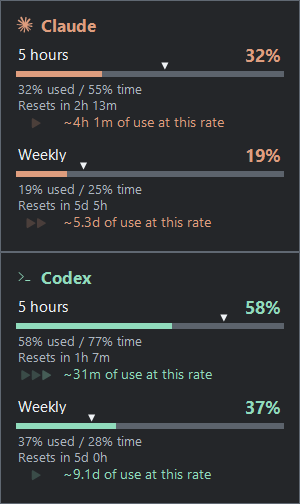
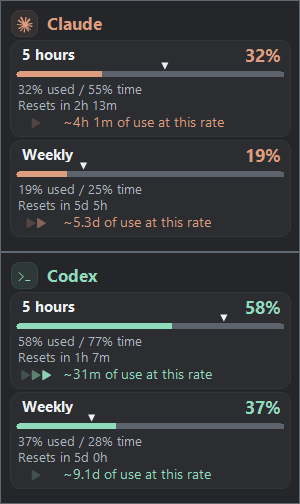
Polish Details and settings with rounded cards, accent navigation and switches

diff --git a/src/Taskcode.Probe/SettingsMenu.cs b/src/Taskcode.Probe/SettingsMenu.cs
@@ -37,19 +37,6 @@ namespace Taskcode.Probe
             MouseDown += delegate(object sender, MouseEventArgs e) { if (e.Y < 64) drag(sender, e); };
             if (!live) MenuLabel(this, "Demo", 176, 25, 64, 18, "muted");
             var close = MenuButton(this, "", 474, 16, 30, 30, "ghost"); close.AccessibleName = "Close settings"; close.Click += delegate { Hide(); };
-            close.Paint += delegate(object sender, PaintEventArgs e)
-            {
-                // Center the symbol geometrically, independently of font baseline and DPI.
-                float scale = close.ClientSize.Width / 30f;
-                float x = close.ClientSize.Width / 2f, y = close.ClientSize.Height / 2f, radius = 4 * scale;
-                e.Graphics.SmoothingMode = System.Drawing.Drawing2D.SmoothingMode.AntiAlias;
-                using (var pen = new Pen(close.ForeColor, 1.3f * scale))
-                {
-                    pen.StartCap = pen.EndCap = System.Drawing.Drawing2D.LineCap.Round;
-                    e.Graphics.DrawLine(pen, x - radius, y - radius, x + radius, y + radius);
-                    e.Graphics.DrawLine(pen, x + radius, y - radius, x - radius, y + radius);
-                }
-            };
             AddDivider(this, 16, 63, 488);
             string[] titles = { "Appearance", "Accounts", "General" };
             for (int index = 0; index < 3; index++)
@@ -57,15 +44,22 @@ namespace Taskcode.Probe
                 int page = index;
                 settingsNavigation[index] = MenuButton(this, titles[index], 12, 80 + index * 42, 122, 34, "navigation");
                 settingsNavigation[index].TextAlign = ContentAlignment.MiddleLeft;
-                settingsNavigation[index].Padding = new Padding(10, 0, 0, 0);
+                settingsNavigation[index].Padding = new Padding(18, 0, 0, 0);
                 settingsNavigation[index].Click += delegate { ShowSettingsPage(page); };
                 settingsPages[index] = new Panel { Location = new Point(152, 80), Size = new Size(352, 312), AccessibleName = titles[index] + " settings" };
                 Controls.Add(settingsPages[index]);
+                settingsPages[index].Paint += delegate(object sender, PaintEventArgs e) { PaintSettingsCards((Panel)sender, e.Graphics); };
                 var heading = MenuLabel(settingsPages[index], titles[index], 0, 0, 340, 24, "heading"); heading.Font = new Font("Segoe UI", 10.5f, FontStyle.Bold);
             }
             var appearance = settingsPages[0];
             var previewPanel = new Panel { Location = new Point(0, 40), Size = new Size(340, 64), Tag = "surface", AccessibleName = "Indicator preview" };
             appearance.Controls.Add(previewPanel);
+            previewPanel.Paint += delegate(object sender, PaintEventArgs e)
+            {
+                using (var brush = new SolidBrush(theme.PreviewBackground)) e.Graphics.FillRectangle(brush, previewPanel.ClientRectangle);
+                UiSurface.Draw(e.Graphics, new RectangleF(.5f, .5f, previewPanel.Width - 1, previewPanel.Height - 1), UiSurface.Card(theme), Mix(BackColor, ForeColor, .07), 10);
+            };
+            previewPanel.SizeChanged += delegate { UiSurface.Round(previewPanel, 10); }; UiSurface.Round(previewPanel, 10);
             preview.Location = new Point(12, 12);
             preview.Size = new Size(IndicatorView.LogicalWidth(settings.Style, settings.ShowWeekly), IndicatorView.LogicalHeight);
             preview.Style = settings.Style; preview.ShowWeekly = settings.ShowWeekly; preview.Usage = usage; preview.Theme = theme;
@@ -73,26 +67,26 @@ namespace Taskcode.Probe
             var result = new MenuControls();
             result.Style = MenuSelect(appearance, "Style", 128, new[] { "Pill", "Lines", "Essential", "Blocks" }, (int)settings.Style, "Indicator style");
             result.Trigger = MenuSelect(appearance, "Open details", 172, new[] { "On hover", "On click" }, (int)settings.DetailsTrigger, "Open details");
-            result.Weekly = new CheckBox { Text = "Weekly quota", Location = new Point(0, 216), Size = new Size(330, 26), Checked = settings.ShowWeekly, AccessibleName = "Show weekly quota in the indicator" }; appearance.Controls.Add(result.Weekly);
+            result.Weekly = new SettingsToggle { Text = "Weekly quota", Location = new Point(12, 216), Size = new Size(316, 26), Checked = settings.ShowWeekly, AccessibleName = "Show weekly quota in the indicator" }; appearance.Controls.Add(result.Weekly);
             var animation = MenuButton(appearance, "Preview animation", 0, 264, 158, 30, "action"); animation.Click += delegate { PreviewAnimation(); };
             result.Details = MenuButton(appearance, "Details", 180, 264, 160, 30, "action");
             var accounts = settingsPages[1];
             for (int provider = 0; provider < 2; provider++)
             {
                 int row = 44 + provider * 88;
-                var badge = new ProviderMenuMark(provider) { Location = new Point(0, row + 4), Size = new Size(20, 20) }; accounts.Controls.Add(badge);
-                var label = MenuLabel(accounts, provider == 0 ? "Claude" : "Codex", 30, row, 204, 23, provider == 0 ? "claude" : "codex"); label.Font = new Font("Segoe UI", 9.5f, FontStyle.Bold);
-                accountLabels[provider] = MenuLabel(accounts, live ? "Connecting..." : "Offline preview", 30, row + 27, 206, 38, "muted"); accountLabels[provider].Font = new Font("Segoe UI", 8.5f);
-                var connect = MenuButton(accounts, "Connect", 250, row + 2, 90, 30, "action"); connect.Enabled = live; connect.AccessibleName = provider == 0 ? "Connect Claude" : "Connect Codex";
+                var badge = new ProviderMenuMark(provider) { Location = new Point(12, row + 4), Size = new Size(20, 20) }; accounts.Controls.Add(badge);
+                var label = MenuLabel(accounts, provider == 0 ? "Claude" : "Codex", 42, row, 184, 23, provider == 0 ? "claude" : "codex"); label.Font = new Font("Segoe UI", 9.5f, FontStyle.Bold);
+                accountLabels[provider] = MenuLabel(accounts, live ? "Connecting..." : "Offline preview", 42, row + 27, 184, 38, "muted"); accountLabels[provider].Font = new Font("Segoe UI", 8.5f);
+                var connect = MenuButton(accounts, "Connect", 238, row + 2, 90, 30, "action"); connect.Enabled = live; connect.AccessibleName = provider == 0 ? "Connect Claude" : "Connect Codex";
                 if (provider == 0) result.Claude = connect; else result.Codex = connect;
-                if (provider == 0) AddDivider(accounts, 0, row + 74, 340);
+
             }
-            result.Refresh = MenuButton(accounts, live ? "Refresh" : "Simulate speed", 0, 244, 108, 30, "action");
-            result.Disconnect = MenuButton(accounts, "Disconnect", 124, 244, 108, 30, "action"); result.Disconnect.Enabled = live;
+            result.Refresh = MenuButton(accounts, live ? "Refresh" : "Simulate speed", 0, 244, 132, 30, "action");
+            result.Disconnect = MenuButton(accounts, "Disconnect", 148, 244, 120, 30, "action"); result.Disconnect.Enabled = live;
             var general = settingsPages[2];
-            enabled.Text = "Show indicator"; enabled.Location = new Point(0, 44); enabled.Size = new Size(330, 26); enabled.Checked = true; general.Controls.Add(enabled);
-            result.Startup = new CheckBox { Text = "Start with Windows", Location = new Point(0, 84), Size = new Size(330, 26) }; general.Controls.Add(result.Startup);
-            AddDivider(general, 0, 132, 340);
+            enabled.Text = "Show indicator"; enabled.Location = new Point(12, 44); enabled.Size = new Size(316, 26); enabled.Checked = true; general.Controls.Add(enabled);
+            result.Startup = new SettingsToggle { Text = "Start with Windows", Location = new Point(12, 84), Size = new Size(316, 26) }; general.Controls.Add(result.Startup);
+
             result.Placement = MenuSelect(general, "Placement", 156, new[] { "Embedded (experimental)", "Overlay" }, (int)settings.Mode, "Placement mode");
             settingsHints.SetToolTip(result.Placement, "Embedded attaches to the taskbar. Overlay uses the same position in a separate window.");
             AddDivider(this, 16, 400, 488);
@@ -105,12 +99,12 @@ namespace Taskcode.Probe
         private static Label MenuLabel(Control parent, string text, int x, int y, int width, int height, string role)
         { var label = new Label { Text = text, Location = new Point(x, y), Size = new Size(width, height), Tag = role, AutoEllipsis = true }; parent.Controls.Add(label); return label; }
         private static Button MenuButton(Control parent, string text, int x, int y, int width, int height, string role)
-        { var button = new Button { Text = text, Location = new Point(x, y), Size = new Size(width, height), Tag = role, FlatStyle = FlatStyle.Flat, UseVisualStyleBackColor = false }; button.FlatAppearance.BorderSize = 0; parent.Controls.Add(button); return button; }
+        { var button = new SurfaceButton { Text = text, Location = new Point(x, y), Size = new Size(width, height), Tag = role, FlatStyle = FlatStyle.Flat, UseVisualStyleBackColor = false }; button.FlatAppearance.BorderSize = role == "action" ? 1 : 0; button.SizeChanged += delegate { UiSurface.Round(button, 7); }; UiSurface.Round(button, 7); parent.Controls.Add(button); return button; }
         private static void AddDivider(Control parent, int x, int y, int width) { parent.Controls.Add(new Panel { Location = new Point(x, y), Size = new Size(width, 1), Tag = "divider" }); }
         private static ComboBox MenuSelect(Control parent, string label, int y, string[] choices, int selected, string accessibleName)
         {
-            MenuLabel(parent, label, 0, y + 4, 124, 24, "text");
-            var select = new SettingsSelect { Location = new Point(132, y), Width = 208, AccessibleName = accessibleName };
+            MenuLabel(parent, label, 12, y + 4, 112, 24, "text");
+            var select = new SettingsSelect { Location = new Point(132, y), Width = 196, AccessibleName = accessibleName };
             select.Items.AddRange(choices); select.SelectedIndex = selected; parent.Controls.Add(select); return select;
         }
         internal void ShowSettingsPage(int page)
@@ -137,8 +131,8 @@ namespace Taskcode.Probe
             for (int index = 0; index < settingsNavigation.Length; index++)
             {
                 var button = settingsNavigation[index]; if (button == null) continue;
-                button.BackColor = index == settingsPage ? Mix(BackColor, ForeColor, 0.10) : BackColor;
-                button.ForeColor = ForeColor;
+                button.BackColor = index == settingsPage ? Mix(BackColor, theme.Codex, 0.12) : Mix(BackColor, Color.Black, .10);
+                button.ForeColor = index == settingsPage ? theme.Codex : theme.Muted;
                 if (theme.HighContrast && index == settingsPage) { button.BackColor = SystemColors.Highlight; button.ForeColor = SystemColors.HighlightText; }
                 button.AccessibleDescription = index == settingsPage ? "Selected" : "";
             }
@@ -148,13 +142,32 @@ namespace Taskcode.Probe
             foreach (Control control in root.Controls)
             {
                 string role = control.Tag as string;
-                control.BackColor = role == "divider" ? Mix(palette.PreviewBackground, palette.Text, .12) : role == "action" || role == "surface" || control is ComboBox ? Mix(palette.PreviewBackground, palette.Text, .035) : palette.PreviewBackground;
+                bool card = IsSettingsCard(root, control);
+                control.BackColor = card && !(control is Button) && !(control is ComboBox) ? UiSurface.Card(palette) : role == "divider" ? Mix(palette.PreviewBackground, palette.Text, .12) : role == "action" || role == "surface" || control is ComboBox ? Mix(palette.PreviewBackground, palette.Text, .035) : palette.PreviewBackground;
                 control.ForeColor = role == "muted" ? palette.Muted : role == "claude" ? palette.Claude : role == "codex" ? palette.Codex : palette.Text;
                 var button = control as Button;
-                if (button != null) { button.FlatAppearance.MouseOverBackColor = Mix(palette.PreviewBackground, palette.Text, .10); button.FlatAppearance.MouseDownBackColor = Mix(palette.PreviewBackground, palette.Text, .15); }
+                if (button != null) { button.FlatAppearance.BorderColor = Mix(palette.PreviewBackground, palette.Text, .09); button.FlatAppearance.MouseOverBackColor = Mix(palette.PreviewBackground, palette.Codex, .10); button.FlatAppearance.MouseDownBackColor = Mix(palette.PreviewBackground, palette.Text, .15); }
                 var mark = control as ProviderMenuMark; if (mark != null) mark.Palette = palette;
                 ApplyMenuColors(control, palette);
             }
+        }
+        private static bool IsSettingsCard(Control root, Control control)
+        {
+            string page = root.AccessibleName ?? "";
+            float top = control.Top * 312f / Math.Max(1, root.Height);
+            return page == "Appearance settings" ? top >= 118 && top < 246 :
+                page == "Accounts settings" ? top >= 40 && top < 208 :
+                page == "General settings" && top >= 40 && top < 208;
+        }
+        private void PaintSettingsCards(Panel page, Graphics graphics)
+        {
+            var saved = graphics.Save(); graphics.ScaleTransform(page.Width / 352f, page.Height / 312f);
+            RectangleF[] cards = page == settingsPages[0] ? new[] { new RectangleF(0, 118, 340, 128) } :
+                page == settingsPages[1] ? new[] { new RectangleF(0, 40, 340, 80), new RectangleF(0, 128, 340, 80) } :
+                new[] { new RectangleF(0, 40, 340, 80), new RectangleF(0, 144, 340, 64) };
+            foreach (var rect in cards) UiSurface.Draw(graphics, rect, UiSurface.Card(theme), Mix(BackColor, ForeColor, .07), 10);
+            using (var accent = new SolidBrush(theme.Codex)) graphics.FillRectangle(accent, 0, 28, 24, 2);
+            graphics.Restore(saved);
         }
         private void SetSettingsStatus(string message, bool problem = false)
         {
@@ -176,7 +189,67 @@ namespace Taskcode.Probe
             preview.Size = new Size((int)Math.Round(IndicatorView.LogicalWidth(settings.Style, settings.ShowWeekly) * scale), (int)Math.Round(IndicatorView.LogicalHeight * scale));
         }
         protected override void OnPaint(PaintEventArgs e)
-        { base.OnPaint(e); using (var pen = new Pen(Mix(BackColor, ForeColor, .12))) e.Graphics.DrawRectangle(pen, 0, 0, Width - 1, Height - 1); }
+        {
+            base.OnPaint(e);
+            var saved = e.Graphics.Save(); e.Graphics.ScaleTransform(Width / 520f, Height / 440f);
+            using (var sidebar = new SolidBrush(Mix(BackColor, Color.Black, .10))) e.Graphics.FillRectangle(sidebar, 0, 64, 140, 336);
+            using (var line = new Pen(Mix(BackColor, ForeColor, .045))) e.Graphics.DrawLine(line, 140, 78, 140, 386);
+            e.Graphics.Restore(saved);
+            using (var pen = new Pen(Mix(BackColor, ForeColor, .12))) e.Graphics.DrawRectangle(pen, 0, 0, Width - 1, Height - 1);
+        }
+        private sealed class SurfaceButton : Button
+        {
+            private bool hovered, pressed;
+            internal SurfaceButton() { SetStyle(ControlStyles.UserPaint | ControlStyles.AllPaintingInWmPaint | ControlStyles.OptimizedDoubleBuffer, true); }
+            protected override void OnMouseEnter(EventArgs e) { hovered = true; base.OnMouseEnter(e); Invalidate(); }
+            protected override void OnMouseLeave(EventArgs e) { hovered = pressed = false; base.OnMouseLeave(e); Invalidate(); }
+            protected override void OnMouseDown(MouseEventArgs e) { pressed = true; base.OnMouseDown(e); Invalidate(); }
+            protected override void OnMouseUp(MouseEventArgs e) { pressed = false; base.OnMouseUp(e); Invalidate(); }
+            protected override void OnPaint(PaintEventArgs e)
+            {
+                var palette = TaskbarTheme.Read(); string role = Tag as string;
+                Color outer = role == "navigation" ? Mix(palette.PreviewBackground, Color.Black, .10) : Parent == null ? palette.PreviewBackground : Parent.BackColor;
+                using (var brush = new SolidBrush(outer)) e.Graphics.FillRectangle(brush, ClientRectangle);
+                Color fill = Enabled && hovered ? (pressed ? FlatAppearance.MouseDownBackColor : FlatAppearance.MouseOverBackColor) : BackColor;
+                Color border = role == "action" ? FlatAppearance.BorderColor : fill;
+                UiSurface.Draw(e.Graphics, new RectangleF(.5f, .5f, Width - 1, Height - 1), fill, border, Height * .23f);
+                Color ink = Enabled ? ForeColor : palette.Muted;
+                if (AccessibleName == "Close settings")
+                {
+                    float unit = Width / 30f, x = Width / 2f, y = Height / 2f, radius = 4 * unit;
+                    using (var pen = new Pen(ink, 1.3f * unit))
+                    { pen.StartCap = pen.EndCap = System.Drawing.Drawing2D.LineCap.Round; e.Graphics.DrawLine(pen, x - radius, y - radius, x + radius, y + radius); e.Graphics.DrawLine(pen, x + radius, y - radius, x - radius, y + radius); }
+                }
+                else
+                {
+                    var bounds = new Rectangle(Padding.Left + 6, 0, Math.Max(1, Width - Padding.Horizontal - 12), Height);
+                    var align = TextAlign == ContentAlignment.MiddleLeft ? TextFormatFlags.Left : TextFormatFlags.HorizontalCenter;
+                    TextRenderer.DrawText(e.Graphics, Text, Font, bounds, ink, align | TextFormatFlags.VerticalCenter | TextFormatFlags.EndEllipsis);
+                }
+                if (role == "navigation" && AccessibleDescription == "Selected")
+                    UiSurface.Draw(e.Graphics, new RectangleF(7, Height * .31f, 2, Height * .38f), palette.Codex, palette.Codex, 1);
+                if (Focused && ShowFocusCues) ControlPaint.DrawFocusRectangle(e.Graphics, new Rectangle(3, 3, Width - 6, Height - 6), ink, fill);
+            }
+        }
+        private sealed class SettingsToggle : CheckBox
+        {
+            internal SettingsToggle() { SetStyle(ControlStyles.UserPaint | ControlStyles.AllPaintingInWmPaint | ControlStyles.OptimizedDoubleBuffer, true); }
+            protected override void OnCheckedChanged(EventArgs e) { base.OnCheckedChanged(e); Invalidate(); }
+            protected override void OnPaint(PaintEventArgs e)
+            {
+                using (var brush = new SolidBrush(BackColor)) e.Graphics.FillRectangle(brush, ClientRectangle);
+                float scale = Height / 26f;
+                var track = new RectangleF(Width - 30 * scale, (Height - 16 * scale) / 2, 30 * scale, 16 * scale);
+                var palette = TaskbarTheme.Read();
+                Color fill = Checked ? palette.Codex : Mix(BackColor, ForeColor, .18);
+                UiSurface.Draw(e.Graphics, track, fill, fill, 8 * scale);
+                using (var knob = new SolidBrush(Checked ? palette.PreviewBackground : palette.Text))
+                    e.Graphics.FillEllipse(knob, track.X + (Checked ? 16 : 2) * scale, track.Y + 2 * scale, 12 * scale, 12 * scale);
+                TextRenderer.DrawText(e.Graphics, Text, Font, new Rectangle(0, 0, Width - (int)(42 * scale), Height), Enabled ? ForeColor : palette.Muted,
+                    TextFormatFlags.Left | TextFormatFlags.VerticalCenter | TextFormatFlags.EndEllipsis);
+                if (Focused && ShowFocusCues) ControlPaint.DrawFocusRectangle(e.Graphics, new Rectangle(0, 2, Width - (int)(42 * scale), Height - 4), ForeColor, BackColor);
+            }
+        }
         private sealed class SettingsSelect : ComboBox
         {
             internal SettingsSelect() { DropDownStyle = ComboBoxStyle.DropDownList; FlatStyle = FlatStyle.Flat; DrawMode = DrawMode.OwnerDrawFixed; ItemHeight = 22; }
@@ -197,8 +270,8 @@ namespace Taskcode.Probe
             }
             private void DrawFace(Graphics graphics)
             {
-                using (var background = new SolidBrush(BackColor)) graphics.FillRectangle(background, ClientRectangle);
-                using (var border = new Pen(Mix(BackColor, ForeColor, .16))) graphics.DrawRectangle(border, 0, 0, Width - 1, Height - 1);
+                using (var brush = new SolidBrush(UiSurface.Card(TaskbarTheme.Read()))) graphics.FillRectangle(brush, ClientRectangle);
+                UiSurface.Draw(graphics, new RectangleF(.5f, .5f, Width - 1, Height - 1), BackColor, Mix(BackColor, ForeColor, .12), 5);
                 var textBounds = new Rectangle(9, 0, Math.Max(0, Width - 37), Height);
                 TextRenderer.DrawText(graphics, Text, Font, textBounds, ForeColor, TextFormatFlags.Left | TextFormatFlags.VerticalCenter | TextFormatFlags.EndEllipsis);
                 graphics.SmoothingMode = System.Drawing.Drawing2D.SmoothingMode.AntiAlias;

diff --git a/src/Taskcode.Probe/Indicator.cs b/src/Taskcode.Probe/Indicator.cs
@@ -320,8 +320,13 @@ namespace Taskcode.Probe
                 const float inset = 6;
                 float width = Math.Max(0, Width - 2 * inset);
                 float used = (float)Period.UsedFraction * width;
-                e.Graphics.FillRectangle(track, inset, 9, width, 6);
-                e.Graphics.FillRectangle(fill, inset, 9, used, 6);
+                using (var shape = UiSurface.Shape(new RectangleF(inset, 9, width, 6), 3))
+                {
+                    e.Graphics.FillPath(track, shape);
+                    var state = e.Graphics.Save(); e.Graphics.SetClip(shape);
+                    e.Graphics.FillRectangle(fill, inset, 9, used, 6);
+                    e.Graphics.Restore(state);
+                }
                 var elapsed = Period.ElapsedAt(RenderTimeUtc);
                 if (elapsed.HasValue)
                 {
@@ -362,7 +367,8 @@ namespace Taskcode.Probe
             Font = new Font("Segoe UI", 10f);
             KeyPreview = true;
             var providerColor = providerIndex == 0 ? IndicatorView.Claude : IndicatorView.Codex;
-            providerLabel = AddText(provider, 38, 14, 10, FontStyle.Bold, providerColor);
+            providerLabel = AddText(provider, 44, 11, 10, FontStyle.Bold, providerColor);
+            providerLabel.AutoSize = false; providerLabel.Size = new Size(230, 26); providerLabel.TextAlign = ContentAlignment.MiddleLeft;
             AddQuota(this.usage.Readings[providerIndex * 2], 44);
             AddQuota(this.usage.Readings[providerIndex * 2 + 1], 144);
             KeyDown += delegate(object sender, KeyEventArgs e) { if (e.KeyCode == Keys.Escape) Hide(); };
@@ -394,7 +400,7 @@ namespace Taskcode.Probe
             string provider = reading.Provider, window = reading.Window;
             int used = reading.Period.Remaining < 0 ? -1 : 100 - reading.Period.Remaining;
             var color = provider == "Claude" ? IndicatorView.Claude : IndicatorView.Codex;
-            AddText(window == "Weekly" ? "Weekly" : "5 hours", 16, y, 9, FontStyle.Regular, ForeColor);
+            AddText(window == "Weekly" ? "Weekly" : "5 hours", 20, y, 9, FontStyle.Bold, ForeColor);
             var valueCaption = AddText(used < 0 ? "--" : used + "%", 212, y - 2, 11, FontStyle.Bold, color);
             int valueWidth = Math.Max(72, TextRenderer.MeasureText("100%", valueCaption.Font).Width + 6);
             valueCaption.AutoSize = false; valueCaption.Location = new Point(284 - valueWidth, y - 2);
@@ -471,9 +477,9 @@ namespace Taskcode.Probe
             foreach (Control control in Controls)
             {
                 var bar = control as QuotaBar;
-                if (bar != null) { bar.Theme = value; bar.BackColor = value.PreviewBackground; bar.Invalidate(); continue; }
+                if (bar != null) { bar.Theme = value; bar.BackColor = UiSurface.Card(value); bar.Invalidate(); continue; }
                 string role = control.Tag as string;
-                control.BackColor = value.PreviewBackground;
+                control.BackColor = control == providerLabel ? value.PreviewBackground : UiSurface.Card(value);
                 control.ForeColor = role == "claude" ? value.Claude : role == "codex" ? value.Codex : role == "muted" ? value.Muted : value.Text;
             }
             Invalidate();
@@ -482,6 +488,12 @@ namespace Taskcode.Probe
         {
             base.OnPaint(e);
             e.Graphics.SmoothingMode = SmoothingMode.AntiAlias;
+            var state = e.Graphics.Save(); e.Graphics.ScaleTransform(Width / 300f, Height / 252f);
+            foreach (int y in new[] { 40, 140 })
+                UiSurface.Draw(e.Graphics, new RectangleF(10, y, 280, 96), UiSurface.Card(theme), UiSurface.Blend(theme.PreviewBackground, theme.Text, .08), 10);
+            var accent = ProviderIndex == 0 ? theme.Claude : theme.Codex;
+            UiSurface.Draw(e.Graphics, new RectangleF(11, 10, 26, 26), UiSurface.Blend(theme.PreviewBackground, accent, .10), UiSurface.Blend(theme.PreviewBackground, accent, .18), 8);
+            e.Graphics.Restore(state);
             if (ProviderIndex == 0)
                 using (var brush = new SolidBrush(theme.Claude)) BrandMarks.DrawClaude(e.Graphics, brush, new RectangleF(16, 16, 16, 16));
             else using (var brush = new SolidBrush(theme.Codex)) BrandMarks.DrawCodex(e.Graphics, brush, new RectangleF(16, 16, 16, 16));

diff --git a/src/Taskcode.Probe/SettingsMenuChecks.cs b/src/Taskcode.Probe/SettingsMenuChecks.cs
@@ -15,9 +15,11 @@ namespace Taskcode.Probe
             Check(window.FormBorderStyle == FormBorderStyle.None && window.Font.SizeInPoints <= 9, "Settings must use the compact borderless menu and smaller body text.");
             string[] pages = { "Appearance", "Accounts", "General" };
             int startups = 0, styles = 0, accounts = 0;
+            CheckBox weeklyToggle = null;
             foreach (Control control in Descendants(window))
             {
                 var startup = control as CheckBox;
+                if (startup != null && startup.AccessibleName == "Show weekly quota in the indicator") weeklyToggle = startup;
                 if (startup != null && startup.Text == "Start with Windows") { startups++; Check(startup.Checked == startupExpected, "Refactoring settings must preserve Windows startup preference."); }
                 var select = control as ComboBox;
                 if (select != null && select.AccessibleName == "Indicator style") { styles++; Check(select.Items.Count == 4 && (string)select.Items[0] == "Pill" && new Settings().Style == IndicatorStyle.Pill, "All four indicator styles must remain available."); }
@@ -25,6 +27,17 @@ namespace Taskcode.Probe
                 if (control.Parent != null) Check(control.Parent.ClientRectangle.Contains(control.Bounds), "Settings control exceeds its parent: " + control.Text);
             }
             Check(startups == 1 && styles == 1 && accounts == 2, "Navigation must retain the original functional settings and both account connections.");
+            Check(weeklyToggle != null, "The weekly switch must remain available.");
+            bool weeklyBefore = weeklyToggle.Checked;
+            try
+            {
+                Native.SendMessage(weeklyToggle.Handle, 0x00F5, IntPtr.Zero, IntPtr.Zero);
+                Check(weeklyToggle.Checked != weeklyBefore, "A native click must toggle the custom-painted switch.");
+                Check(weeklyToggle.AccessibilityObject.Role == AccessibleRole.CheckButton &&
+                    ((weeklyToggle.AccessibilityObject.State & AccessibleStates.Checked) != 0) == weeklyToggle.Checked,
+                    "Painted switches must retain their native accessible checked state.");
+            }
+            finally { weeklyToggle.Checked = weeklyBefore; }
             using (var board = new Bitmap(window.Width, window.Height * 3))
             using (var graphics = Graphics.FromImage(board))
             {

diff --git a/src/Taskcode.Probe/UiSurface.cs b/src/Taskcode.Probe/UiSurface.cs
@@ -1,0 +1,39 @@
+using System;
+using System.Drawing;
+using System.Drawing.Drawing2D;
+using System.Windows.Forms;
+
+namespace Taskcode.Probe
+{
+    internal static class UiSurface
+    {
+        internal static Color Blend(Color background, Color foreground, double amount)
+        { return Color.FromArgb((int)(background.R * (1 - amount) + foreground.R * amount), (int)(background.G * (1 - amount) + foreground.G * amount), (int)(background.B * (1 - amount) + foreground.B * amount)); }
+        internal static Color Card(TaskbarTheme theme) { return Blend(theme.PreviewBackground, theme.Text, .035); }
+        internal static GraphicsPath Shape(RectangleF bounds, float radius)
+        {
+            float diameter = Math.Min(radius * 2, Math.Min(bounds.Width, bounds.Height));
+            var path = new GraphicsPath();
+            path.AddArc(bounds.Left, bounds.Top, diameter, diameter, 180, 90);
+            path.AddArc(bounds.Right - diameter, bounds.Top, diameter, diameter, 270, 90);
+            path.AddArc(bounds.Right - diameter, bounds.Bottom - diameter, diameter, diameter, 0, 90);
+            path.AddArc(bounds.Left, bounds.Bottom - diameter, diameter, diameter, 90, 90);
+            path.CloseFigure(); return path;
+        }
+        internal static void Draw(Graphics graphics, RectangleF bounds, Color fill, Color border, float radius)
+        {
+            graphics.SmoothingMode = SmoothingMode.AntiAlias;
+            using (var path = Shape(bounds, radius))
+            using (var brush = new SolidBrush(fill))
+            using (var pen = new Pen(border, .7f))
+            { graphics.FillPath(brush, path); graphics.DrawPath(pen, path); }
+        }
+        internal static void Round(Control control, float radius)
+        {
+            using (var path = Shape(new RectangleF(0, 0, control.Width, control.Height), radius))
+            {
+                var old = control.Region; control.Region = new Region(path); if (old != null) old.Dispose();
+            }
+        }
+    }
+}

diff --git a/src/Taskcode.Probe/MainWindow.cs b/src/Taskcode.Probe/MainWindow.cs
@@ -18,7 +18,7 @@ namespace Taskcode.Probe
         private readonly Timer animationTimer = new Timer { Interval = 33 };
         private readonly IndicatorView preview = new IndicatorView();
         private readonly Label status = new Label();
-        private readonly CheckBox enabled = new CheckBox();
+        private readonly CheckBox enabled = new SettingsToggle();
         private IndicatorWindow indicator;
         private readonly UsageDemo usage = new UsageDemo();
         private readonly DetailWindow[] providerDetails;

diff --git a/docs/DESIGN.md b/docs/DESIGN.md
@@ -21,6 +21,8 @@ The **Indicator style** setting provides an immediate preview and saves the sele
 
 Settings use a compact borderless menu with Appearance, Accounts, and General navigation. Body text uses Segoe UI 9pt; the application heading is 14pt. Settings, selectors, previews, and account windows share the fixed dark Taskcode palette. Verbose instructions and placement diagnostics are kept out of the primary layout; necessary context remains available in tooltips. The close control hides settings, and Exit ends the tray application.
 
+Settings group related controls in subtly elevated rounded cards. Selected navigation uses a muted mint fill and a narrow accent marker; action buttons and selectors use rounded edges and soft borders. Appearance and General use switch-shaped controls backed by native CheckBox behavior, including keyboard input and accessible checked states. Details separate five-hour and weekly quotas into compact rounded cards, with a provider badge, stronger period headings, rounded quota tracks, and muted timing labels. The refresh and hover behavior is unchanged by these visual surfaces.
+
 ## Data semantics
 
 Percentages represent consumed quota and must be labeled accordingly in the details panel. Claude and Codex use the same convention. Do not mix remaining and consumed percentages.
